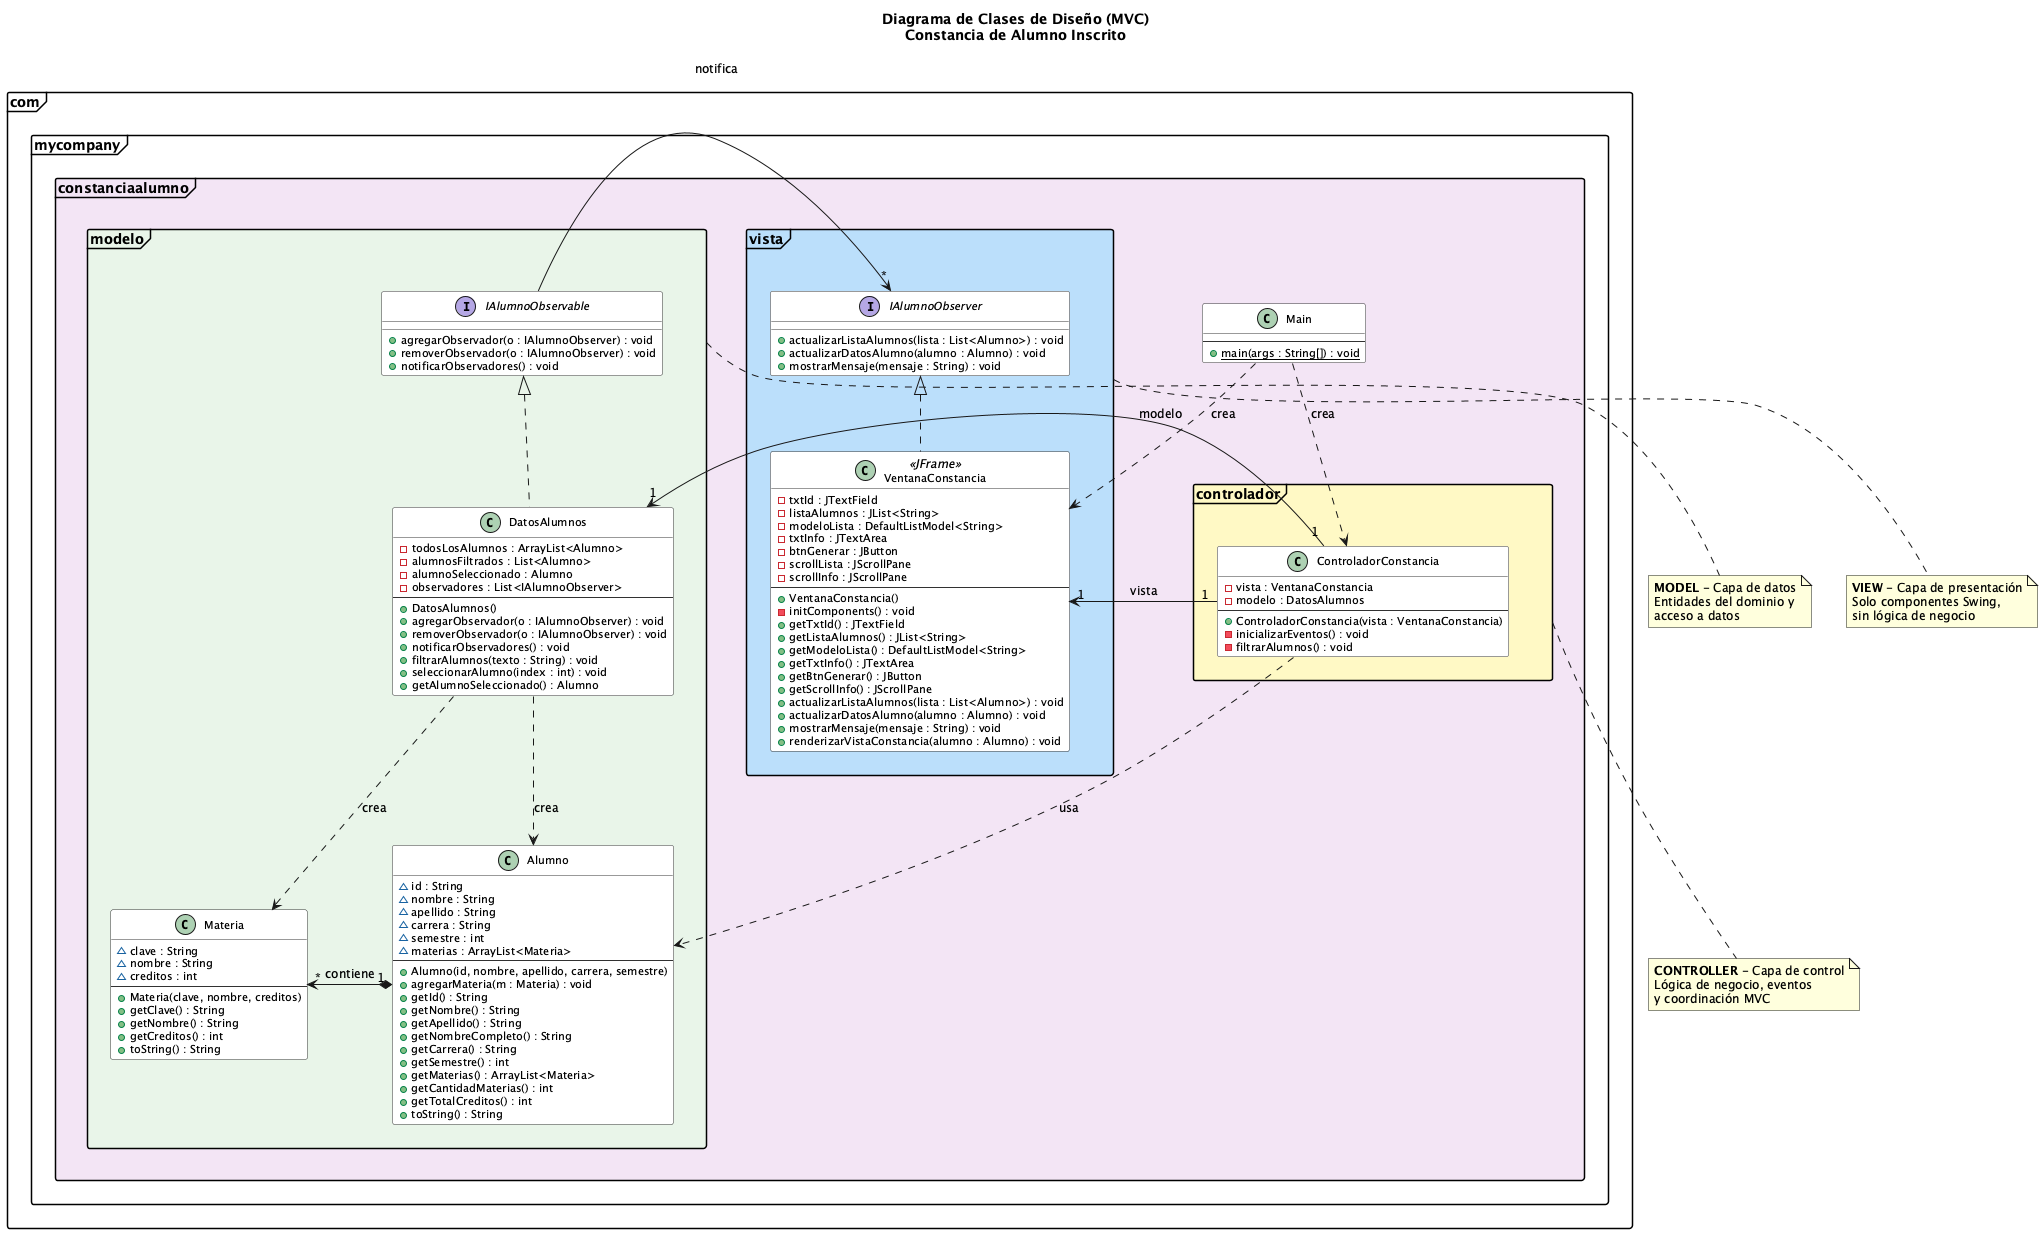
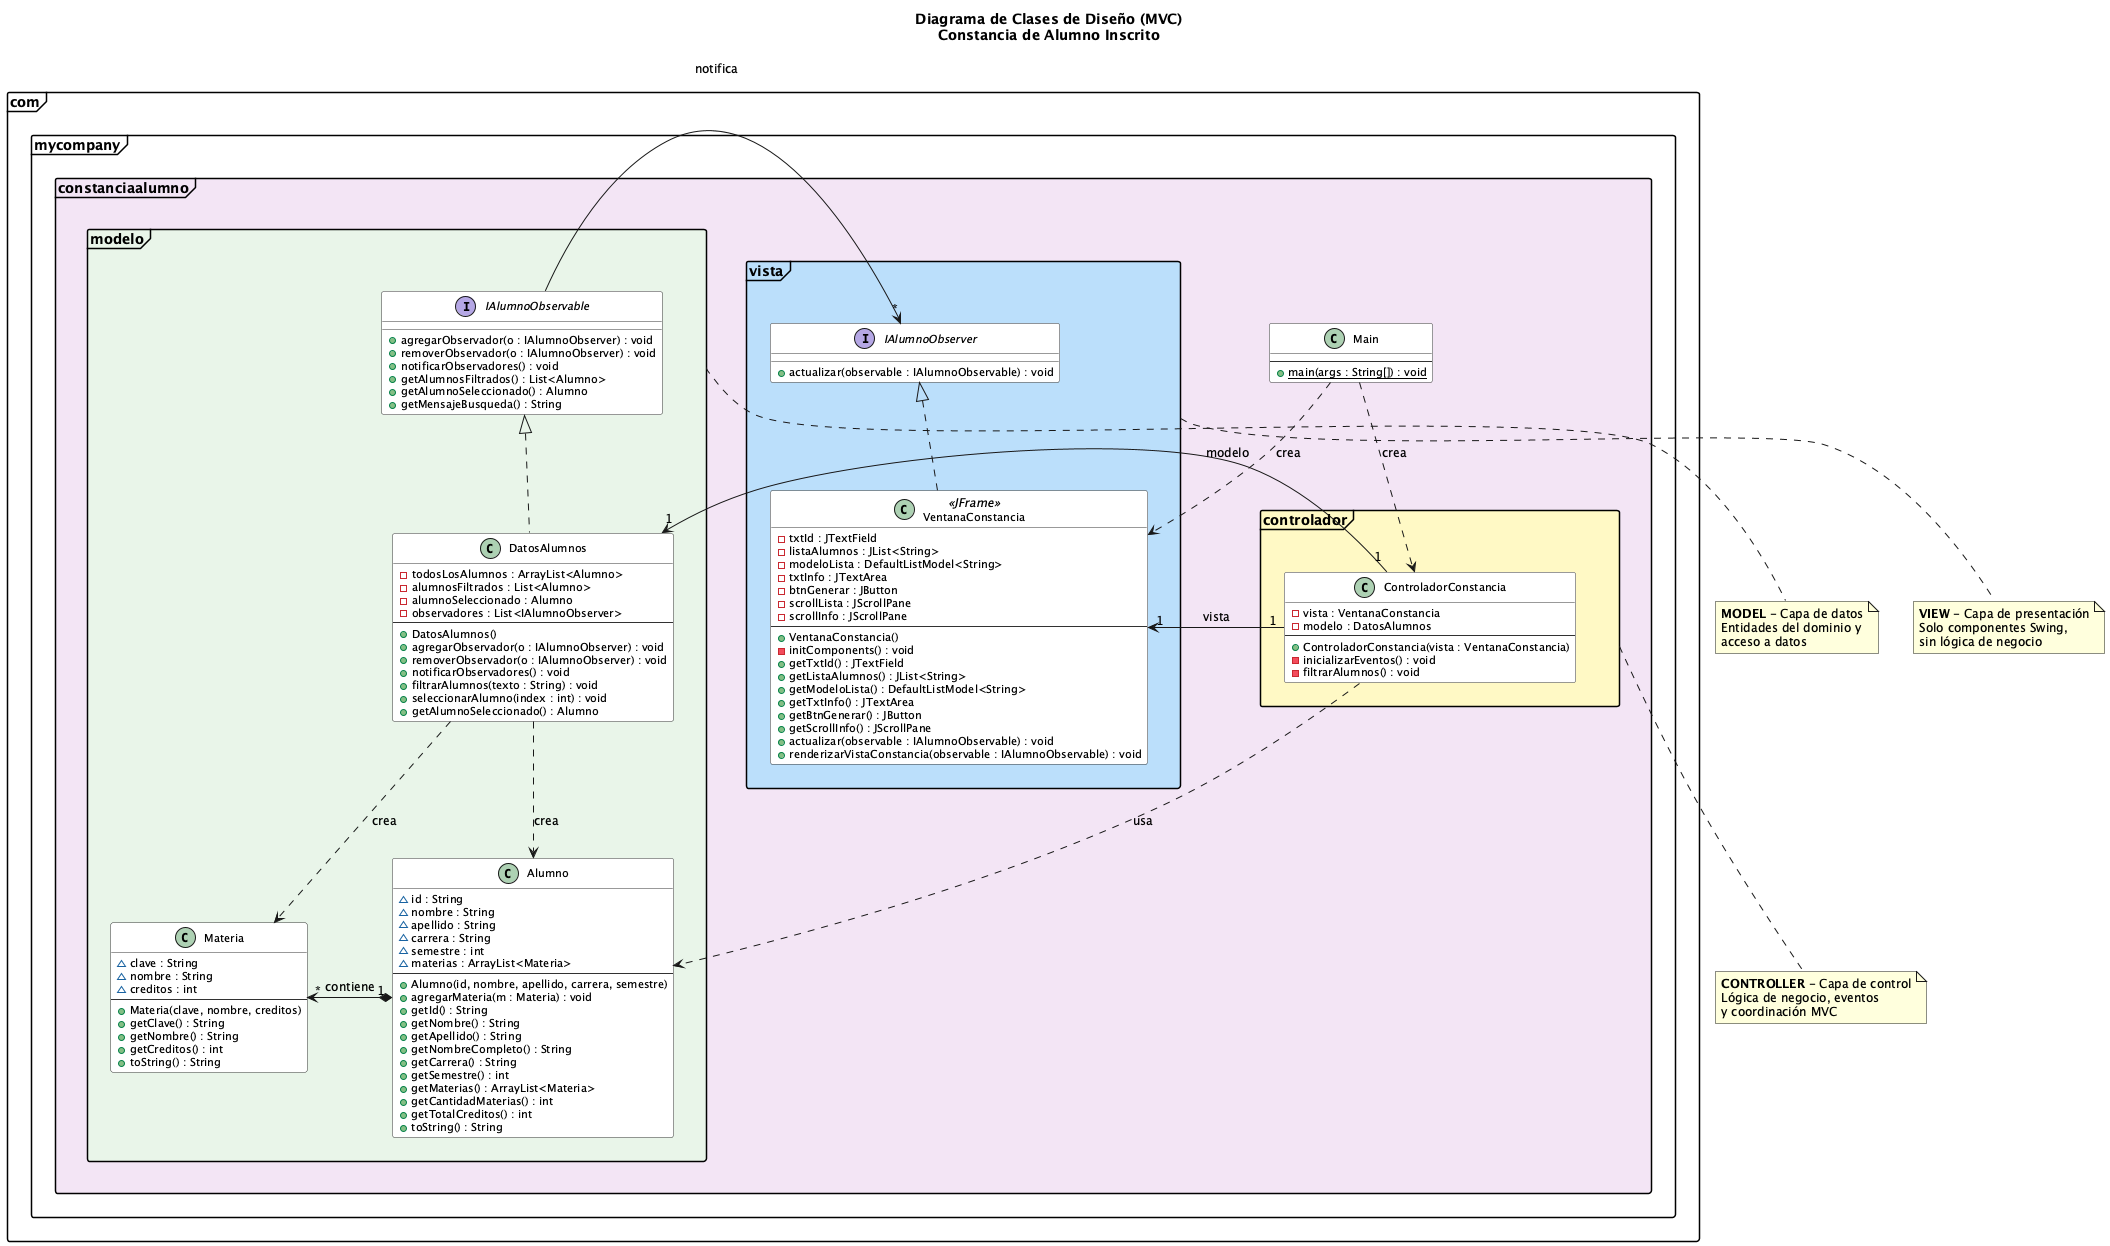
Refactor Observer to use Pull model (Polymorphism) as requested, updating diagrams

Changed region(s): [[0.0, 0.0308, 1.0, 0.9862], [0.4317, 0.0, 0.5551, 0.0308], [0.1542, 0.6472, 0.185, 0.678]]

diff --git a/src/main/java/com/mycompany/constanciaalumno/vista/VentanaConstancia.java b/src/main/java/com/mycompany/constanciaalumno/vista/VentanaConstancia.java
@@ -121,15 +121,24 @@ public class VentanaConstancia extends JFrame implements IAlumnoObserver {
     // ==========================================
 
     @Override
-    public void actualizarListaAlumnos(List<Alumno> lista) {
+    public void actualizar(com.mycompany.constanciaalumno.modelo.IAlumnoObservable observable) {
+        // 1. Dibuja la lista usando el estado extraído
         modeloLista.clear();
-        for (Alumno a : lista) {
+        for (Alumno a : observable.getAlumnosFiltrados()) {
             modeloLista.addElement(a.toString());
         }
-    }
 
-    @Override
-    public void actualizarDatosAlumno(Alumno alumno) {
+        // 2. Si no hubo resultados o hay un mensaje de validación, pintar mensaje
+        String mensaje = observable.getMensajeBusqueda();
+        if (mensaje != null && !mensaje.isEmpty()) {
+            txtInfo.setText(mensaje);
+            scrollInfo.setBorder(BorderFactory.createTitledBorder("Información del Alumno"));
+            btnGenerar.setEnabled(false);
+            return;
+        }
+
+        // 3. Pintar detalle del alumno seleccionado si lo hay
+        Alumno alumno = observable.getAlumnoSeleccionado();
         if (alumno == null) {
             txtInfo.setText("");
             scrollInfo.setBorder(BorderFactory.createTitledBorder("Información del Alumno"));
@@ -159,18 +168,13 @@ public class VentanaConstancia extends JFrame implements IAlumnoObserver {
         }
     }
 
-    @Override
-    public void mostrarMensaje(String mensaje) {
-        txtInfo.setText(mensaje);
-        scrollInfo.setBorder(BorderFactory.createTitledBorder("Información del Alumno"));
-    }
-
     /**
      * Pinta en el área de texto el formato visual de una constancia oficial.
      * 
-     * @param alumno El alumno del cual generar la vista de la constancia.
+     * @param observable El observable que contiene al alumno seleccionado.
      */
-    public void renderizarVistaConstancia(Alumno alumno) {
+    public void renderizarVistaConstancia(com.mycompany.constanciaalumno.modelo.IAlumnoObservable observable) {
+        Alumno alumno = observable.getAlumnoSeleccionado();
         if (alumno == null)
             return;
 

diff --git a/src/main/java/com/mycompany/constanciaalumno/modelo/DatosAlumnos.java b/src/main/java/com/mycompany/constanciaalumno/modelo/DatosAlumnos.java
@@ -16,6 +16,7 @@ public class DatosAlumnos implements IAlumnoObservable {
     private ArrayList<Alumno> todosLosAlumnos;
     private List<Alumno> alumnosFiltrados;
     private Alumno alumnoSeleccionado;
+    private String mensajeBusqueda = "";
 
     // Lista de vistas/observadores suscritos
     private List<IAlumnoObserver> observadores;
@@ -28,6 +29,21 @@ public class DatosAlumnos implements IAlumnoObservable {
         this.alumnosFiltrados = new ArrayList<>();
         this.observadores = new ArrayList<>();
         this.alumnoSeleccionado = null;
+    }
+
+    @Override
+    public List<Alumno> getAlumnosFiltrados() {
+        return alumnosFiltrados;
+    }
+
+    @Override
+    public Alumno getAlumnoSeleccionado() {
+        return alumnoSeleccionado;
+    }
+
+    @Override
+    public String getMensajeBusqueda() {
+        return mensajeBusqueda;
     }
 
     @Override
@@ -45,8 +61,7 @@ public class DatosAlumnos implements IAlumnoObservable {
     @Override
     public void notificarObservadores() {
         for (IAlumnoObserver o : observadores) {
-            o.actualizarListaAlumnos(alumnosFiltrados);
-            o.actualizarDatosAlumno(alumnoSeleccionado);
+            o.actualizar(this); // Polymorphism
         }
     }
 
@@ -71,9 +86,9 @@ public class DatosAlumnos implements IAlumnoObservable {
         }
 
         if (alumnosFiltrados.isEmpty()) {
-            for (IAlumnoObserver o : observadores) {
-                o.mostrarMensaje("No se encontraron alumnos con ID que contenga: " + texto);
-            }
+            mensajeBusqueda = "No se encontraron alumnos con ID que contenga: " + texto;
+        } else {
+            mensajeBusqueda = "";
         }
 
         notificarObservadores();
@@ -92,15 +107,6 @@ public class DatosAlumnos implements IAlumnoObservable {
             alumnoSeleccionado = null;
         }
         notificarObservadores();
-    }
-
-    /**
-     * Obtiene el alumno actualmente seleccionado.
-     * 
-     * @return El objeto Alumno o null si no hay selección.
-     */
-    public Alumno getAlumnoSeleccionado() {
-        return alumnoSeleccionado;
     }
 
     /**

diff --git a/src/main/java/com/mycompany/constanciaalumno/vista/IAlumnoObserver.java b/src/main/java/com/mycompany/constanciaalumno/vista/IAlumnoObserver.java
@@ -1,37 +1,22 @@
 package com.mycompany.constanciaalumno.vista;
 
-import com.mycompany.constanciaalumno.modelo.Alumno;
-import java.util.List;
+import com.mycompany.constanciaalumno.modelo.IAlumnoObservable;
 
 /**
- * Interfaz fundamental del patrón Observer para las vistas.
- * Permite que componentes gráficos reaccionen a cambios en el modelo sin estar
- * acoplados a él concretamente.
+ * Interfaz fundamental del patrón Observer para la Vista.
+ * Adhiere al modelo Pull: la vista recibe el observable (polimorfismo)
+ * en lugar de los objetos concretos directamente.
  * 
  * @author alejandro
  */
 public interface IAlumnoObserver {
 
     /**
-     * Se invoca cuando el modelo indica que hay un cambio en la lista de alumnos
-     * disponibles (filtro).
+     * El Sujeto (Observable) invoca este método cuando su estado interno cambia.
      * 
-     * @param lista La nueva lista de alumnos a mostrar.
+     * @param observable La instancia que notifica el cambio (se accede por su
+     *                   interfaz).
      */
-    void actualizarListaAlumnos(List<Alumno> lista);
+    void actualizar(IAlumnoObservable observable);
 
-    /**
-     * Se invoca cuando el modelo indica que se ha seleccionado o deseleccionado un
-     * alumno en particular.
-     * 
-     * @param alumno El Alumno seleccionado u objeto null si la selección se limpió.
-     */
-    void actualizarDatosAlumno(Alumno alumno);
-
-    /**
-     * Se invoca cuando el modelo ordena mostrar un mensaje de sistema en la vista.
-     * 
-     * @param mensaje El texto a mostrar (ej. errores de búsqueda o confirmaciones).
-     */
-    void mostrarMensaje(String mensaje);
 }

diff --git a/src/main/java/com/mycompany/constanciaalumno/modelo/IAlumnoObservable.java b/src/main/java/com/mycompany/constanciaalumno/modelo/IAlumnoObservable.java
@@ -1,36 +1,27 @@
 package com.mycompany.constanciaalumno.modelo;
 
 import com.mycompany.constanciaalumno.vista.IAlumnoObserver;
+import java.util.List;
 
 /**
- * Interfaz que define las operaciones de un Sujeto Observable en el patrón
- * Observer.
- * Permite que otros objetos (como la Vista) se suscriban para ser notificados
- * de cambios en los datos.
- * Aplica el principio de Segregación de Interfaces (ISP).
+ * Interfaz que define las operaciones de un Sujeto (Observable)
+ * dentro del patrón Observer.
+ * En el modelo Pull, expone métodos para que los Observadores extraigan el
+ * estado.
  * 
  * @author alejandro
  */
 public interface IAlumnoObservable {
-
-    /**
-     * Suscribe un observador para que reciba notificaciones de cambios.
-     * 
-     * @param o El observador que implementa IAlumnoObserver.
-     */
     void agregarObservador(IAlumnoObserver o);
 
-    /**
-     * Da de baja un observador existente.
-     * 
-     * @param o El observador a remover.
-     */
     void removerObservador(IAlumnoObserver o);
 
-    /**
-     * Notifica a todos los observadores suscritos que ha ocurrido un cambio en el
-     * modelo,
-     * para que puedan actualizarse.
-     */
     void notificarObservadores();
+
+    // Métodos para el modelo Pull (Polimorfismo para la Vista)
+    List<Alumno> getAlumnosFiltrados();
+
+    Alumno getAlumnoSeleccionado();
+
+    String getMensajeBusqueda();
 }

diff --git a/src/main/java/com/mycompany/constanciaalumno/controlador/ControladorConstancia.java b/src/main/java/com/mycompany/constanciaalumno/controlador/ControladorConstancia.java
@@ -69,7 +69,7 @@ public class ControladorConstancia {
 
         // Evento 3: Botón Generar Constancia
         vista.getBtnGenerar().addActionListener(e -> {
-            vista.renderizarVistaConstancia(modelo.getAlumnoSeleccionado());
+            vista.renderizarVistaConstancia(modelo);
         });
     }
 
